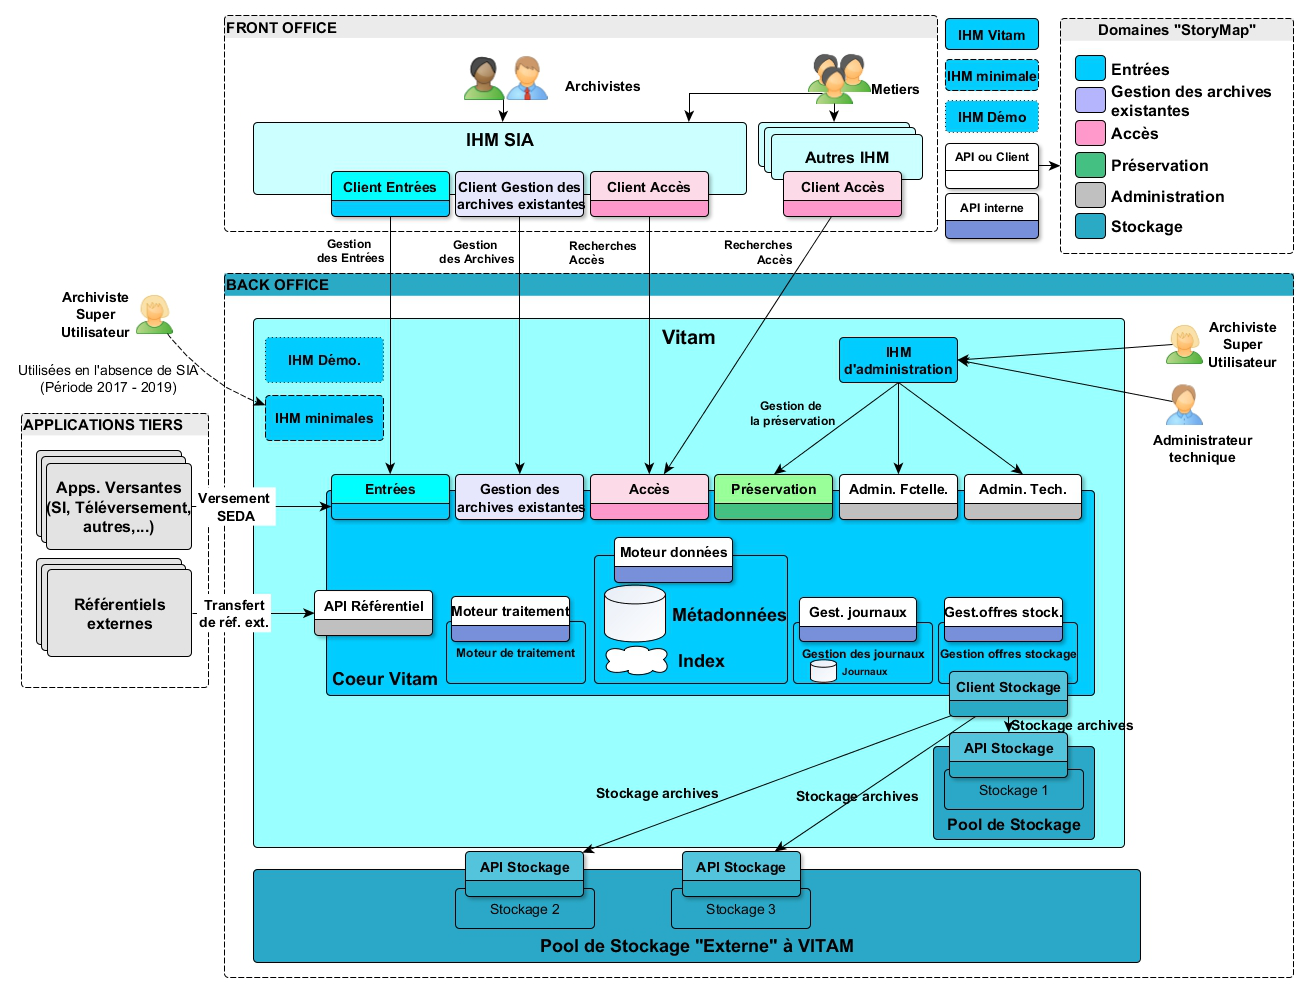
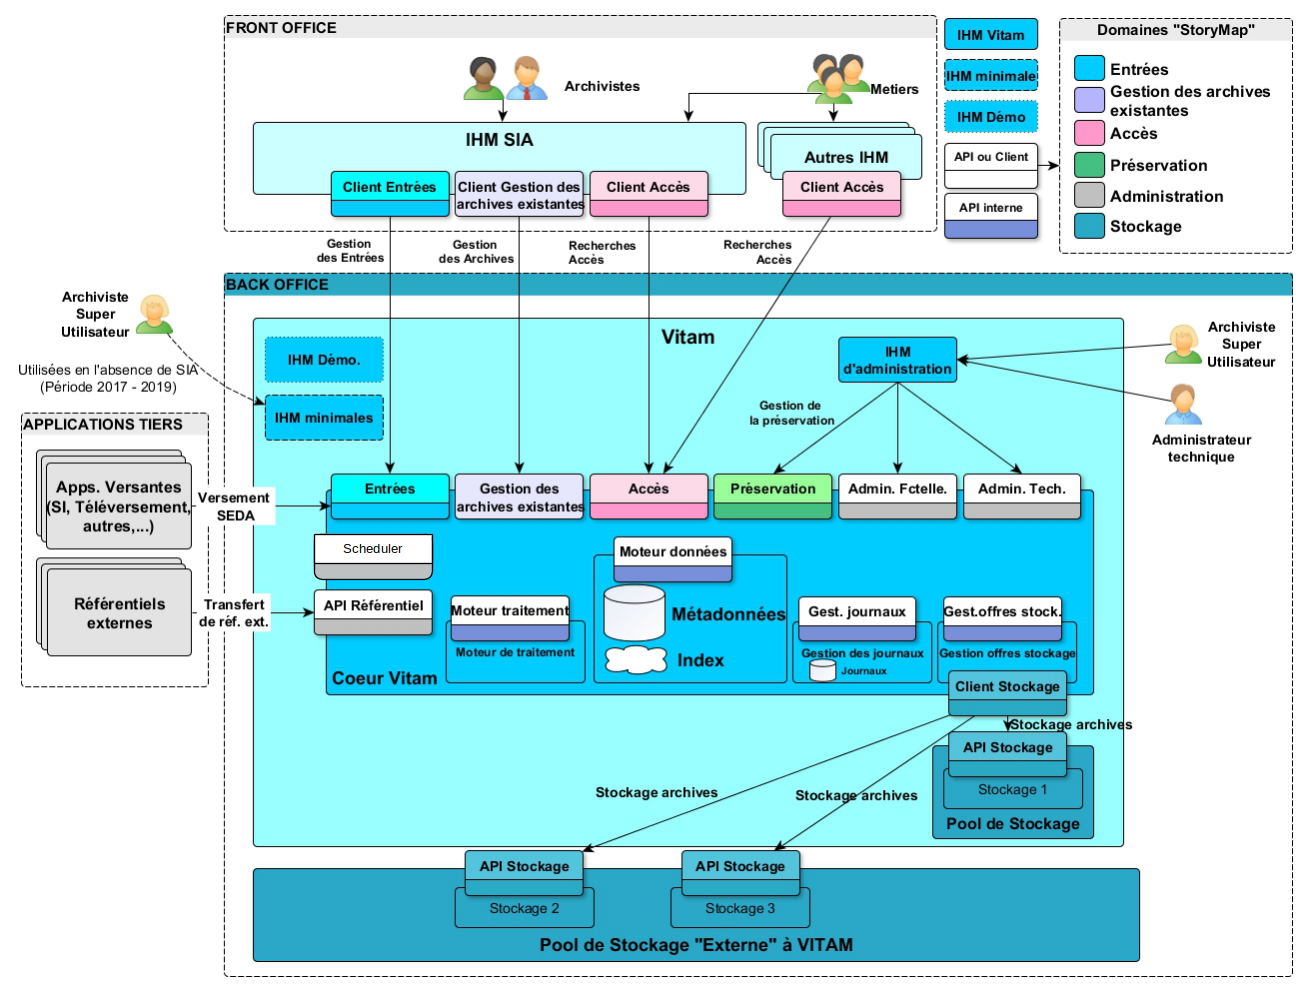
Story #11554 Scheduler documentation

diff --git a/sources/scheduler/doc/fr/exploitation/description.rst b/sources/scheduler/doc/fr/exploitation/description.rst
@@ -1,0 +1,168 @@
+Description
+###########
+
+Ce module se compose de jobs *quartz* pouvant être activés au besoin grâce à la configuration d'Ansible.
+
+* AuditObjectJob
+* AuditDataConsistencyMongoEsJob
+* IdentityExpirationJob
+* MetadataReconstructionJob
+* OfferLogCompactionJob
+* PersistentIdentifierReconstructionJob
+* ProcessObsoleteComputedInheritedRulesJob
+* PurgeDipJob
+* PurgeSipJob
+* ReconstructionAccessionRegisterJob
+* ReconstructionOperationJob
+* ReconstructionReferentialJob
+* ReferentialCreateSymblolicAccessionRegisterJob
+* RuleManagementAuditJob
+* StorageBackupLogJob
+* StorageLogTraceabilityJob
+* StoreGraphJob
+* TraceabilityAuditJob
+* TraceabilityJob
+* TraceabilityLFCJob
+
+Les détails de ces jobs sont expliqués ci-dessous.
+
+Jobs quartz
+============
+
+Les jobs du planificateur s'activent automatiquement selon la configuration souhaitée.
+
+.. caution:: Attention, il faut que le délai d'exécution du job soit supérieur à ``org.quartz.scheduler.idleWaitTime``, qui est réglé à 30 secondes par défaut.
+Si le délai d'exécution a été réglé par erreur à une valeur inférieure, il peut arriver qu'il soit impossible de changer le délai d'exécution à une valeur correcte.
+Dans ce cas, la procédure à suivre est de mettre les jobs en pause (``PUT http://<host>:<port admin>/scheduler/v1/pause/ALL``), attendre au minimum 30 secondes, puis réinitialiser les jobs (``POST http://<host>:<port admin>/scheduler/v1/jobs``)
+
+AuditObjectJob.java
+-------------------
+
+Ce job lance le workflow d'audit d'intégrité et/ou d'existence à travers la configuration *auditType*.
+Le job d'intégrité se déclenche toutes les 4 heures, en commençant à 00:30.
+Le job d'existence se déclenche toutes les 4 heures, en commençant à 00:50.
+
+Ce job prend deux paramètres :
+
+- **operationsDelayInMinutes** : permet de ne pas prendre les données fraîchement enregistrées.
+- **auditType** : prend l'une des valeurs *Existence* ou *Integrity*.
+
+AuditDataConsistencyMongoEsJob.java
+------------------------------------
+
+Ce job permet de vérifier et corriger les incohérences entre MongoDB et Elasticsearch.
+
+IdentityExpirationJob.java
+---------------------------
+
+Ce job vérifie s'il y a des certificats qui vont expirer. Il est programmé par défaut pour s'exécuter chaque jour à minuit.
+
+MetadataReconstructionJob.java
+-------------------------------
+
+Ce job facilite la reconstruction depuis l'offre vers MongoDB et Elasticsearch sur un site secondaire.
+On peut le programmer à travers la valeur ``vitam_timers.metadata.frequency_reconstruction``, et par défaut, il se lance chaque 5 minutes.
+
+OfferLogCompactionJob.java
+---------------------------
+
+Ce job gère la compaction des journaux de chaque offre et ne se lance que sur le site primaire.
+On peut le programmer à travers la valeur ``vitam_timers.offer.frequency_offerlog_compaction``, et par défaut, il se lance toutes les 30 minutes, en commençant à la 10e minute de l'heure.
+
+PersistentIdentifierReconstructionJob.java
+------------------------------------------
+
+Ce job facilite la reconstruction des identifiants persistants.
+On peut le programmer à travers la valeur ``vitam_timers.metadata.frequency_persistent_identifier_reconstruction``, par défaut, il est désactivé.
+
+
+ProcessObsoleteComputedInheritedRulesJob.java
+---------------------------------------------
+
+Ce job s'occupe du traitement des règles calculées ou héritées devenues obsolètes et ne se lance que sur le site primaire.
+On peut le programmer à travers la valeur ``vitam_timers.metadata.frequency_computed_inherited_rules``, par défaut, il se lance chaque jour à 2h30 du matin.
+
+PurgeDipJob.java
+----------------
+
+Ce job effectue la purge des anciens *DIP* et ne se lance que sur le site primaire.
+On peut le programmer à travers la valeur ``vitam_timers.metadata.frequency_purge_dip``, par défaut, il se lance chaque heure.
+
+PurgeSipJob.java
+----------------
+
+Ce job effectue la purge des anciens *SIP* et ne se lance que sur le site primaire.
+On peut le programmer à travers la valeur ``vitam_timers.metadata.frequency_purge_transfers_sip``, par défaut, il se lance chaque matin à 2h25.
+
+ReconstructionAccessionRegisterJob.java
+---------------------------------------
+
+Ce job permet de faire la reconstruction des données concernant AccessionRegisterSymbolic et AccessionRegisterDetail portées par le composant functional-administration uniquement sur le site secondaire.
+On peut le programmer à travers la valeur ``vitam_timers.functional_administration.frequency_accession_register_reconstruction``, par défaut, il se lance chaque 5min.
+
+ReconstructionOperationJob.java
+-------------------------------
+
+Ce job permet de faire la reconstruction des opérations depuis l'offre et logbook et ne se lance que sur le site secondaire.
+On peut le programmer à travers la valeur ``vitam_timers.logbook.frequency_logbook_reconstruction``, par défaut, il se lance chaque 5min.
+
+
+ReconstructionReferentialJob.java
+---------------------------------
+
+Ce job permet de faire la reconstruction des données portées par le composant functional-administration uniquement sur le site secondaire.
+On peut le programmer à travers la valeur ``vitam_timers.functional_administration.frequency_reconstruction``, par défaut, il se lance chaque 5min.
+
+ReferentialCreateSymblolicAccessionRegisterJob.java
+---------------------------------------------------
+
+Ce job permet de déclencher une commande qui va calculer le registre des fonds symbolique et les ajoute dans les bases de données uniquement sur le site primaire.
+On peut le programmer à travers la valeur ``vitam_timers.functional_administration.frequency_create_accession_register_symbolic``, par défaut, il se lance chaque 5min.
+
+RuleManagementAuditJob.java
+---------------------------
+
+Ce job permet de faire la validation de la cohérence des règles de gestion entre les offres de stockage et les bases de données uniquement sur le site primaire.
+On peut le programmer à travers la valeur ``vitam_timers.functional_administration.frequency_rule_management_audit``, par défaut, il se lance chaque jour, à 40 minutes passées de chaque heure.
+
+StorageBackupLogJob.java
+------------------------
+
+Ce job effectue la sauvegarde des journaux d'accès et des journaux d'écriture uniquement sur le site primaire.
+On peut le programmer à travers la valeur ``vitam_timers.storage.vitam_storage_accesslog_backup``, par défaut, il se lance toutes les 4 heures, en commençant à minuit et 10 minutes.
+
+
+StorageLogTraceabilityJob.java
+------------------------------
+
+Ce job assure la sécurisation des opérations de stockage uniquement sur le site primaire.
+On peut le programmer à travers la valeur ``vitam_timers.storage.frequency_traceability_log``, par défaut, il se lance toutes les 4 heures, en commençant à minuit et 40 minutes.
+
+StoreGraphJob.java
+------------------
+
+Ce job permet la sauvegrade des graphs sur l'offre uniquement sur le site primaire.
+On peut le programmer à travers la valeur ``vitam_timers.metadata.frequency_store_graph``, par défaut, il se lance toutes les 30 minutes, en commençant à la 10e minute de chaque heure.
+
+TraceabilityAuditJob.java
+-------------------------
+
+Ce job vérifie s'il y a eu une traçabilité au cours de la dernière période uniquement sur le site primaire.
+On peut le programmer à travers la valeur ``vitam_timers.logbook.frequency_traceability_audit``, par défaut, il se lance à 00:55 chaque jour.
+Ce job prend 4 paramètres :
+ - **operationTraceabilityMaxRenewalDelay**
+ - **operationTraceabilityMaxRenewalDelayUnit**
+ - **lifecycleTraceabilityMaxRenewalDelay**
+ - **lifecycleTraceabilityMaxRenewalDelayUnit**
+
+TraceabilityJob.java
+--------------------
+
+Ce job sécurise les opérations dans le logbook uniquement sur le site primaire.
+On peut le programmer à travers la valeur ``vitam_timers.logbook.frequency_traceability_operations``, par défaut, il se lance toutes les heures, à la 5e minute de chaque heure.
+
+TraceabilityLFCJob.java
+-----------------------
+
+Ce job sécurise les événements du cycle de vie dans le logbook uniquement sur le site primaire.
+On peut le programmer à travers la valeur ``vitam_timers.logbook.frequency_traceability_lfc_objectgroup``, par défaut, il se lance toutes les heures, à la 15e minute de chaque heure.

diff --git a/sources/scheduler/doc/fr/exploitation/operations.rst b/sources/scheduler/doc/fr/exploitation/operations.rst
@@ -3,14 +3,11 @@ Opérations
 
 * Démarrage du service
 
-En tant qu'utilisateur root : 
-``systemctl start vitam-scheduler``
+Exécutez le playbook ``deployment/ansible-vitam-exploitation/start_vitam_scheduler.yml`` pour lancer le service du planificateur la première fois. Pour démarrer les jobs ultérieurement, utilisez le playbook ``deployment/ansible-vitam-exploitation/start_vitam_scheduling.yml``.
 
 * Arrêt du service
 
-En tant qu'utilisateur root : 
-``systemctl stop vitam-scheduler``
-
+Exécutez le playbook ``deployment/ansible-vitam-exploitation/stop_vitam_scheduler.yml`` pour arrêter le service du planificateur. Pour stopper les jobs, utilisez le playbook ``deployment/ansible-vitam-exploitation/stop_vitam_scheduling.yml``.
 
 * Sauvegarde du service
 
@@ -21,5 +18,6 @@ Ce service ne nécessite pas de sauvegarde particulière.
 Contrôler le retour HTTP 200 sur l'URL ``<protocole web http ou https>://<host>:<port>/scheduler/status``
 
 Contrôler le retour HTTP 200 sur l'URL ``http://<host>:<port admin>/scheduler/status``
+
 
 

diff --git a/doc/fr/archi/archi-applicative/20-services-list.rst b/doc/fr/archi/archi-applicative/20-services-list.rst
@@ -166,7 +166,7 @@ Rôle :
 Fonctions :
 
 * Gestion des journaux (ajout, lecture)
-* Sécurisation des journaux (timer systemd)
+* Sécurisation des journaux
 
 Contraintes techniques :
 

diff --git a/sources/scheduler/doc/fr/exploitation/_toc.rst b/sources/scheduler/doc/fr/exploitation/_toc.rst
@@ -7,3 +7,4 @@ scheduler
    introduction.rst
    configuration.rst
    operations.rst
+   description.rst

diff --git a/vitam-conf-dev/build_doc/README.md b/vitam-conf-dev/build_doc/README.md
@@ -16,7 +16,6 @@
    cd /code
    mvn package javadoc:aggregate-jar install -f sources/pom.xml -P-vitam -DskipTests=true
    ```
-
    Alternatively, if you need RPM & DEB packages also :
 
    ```bash